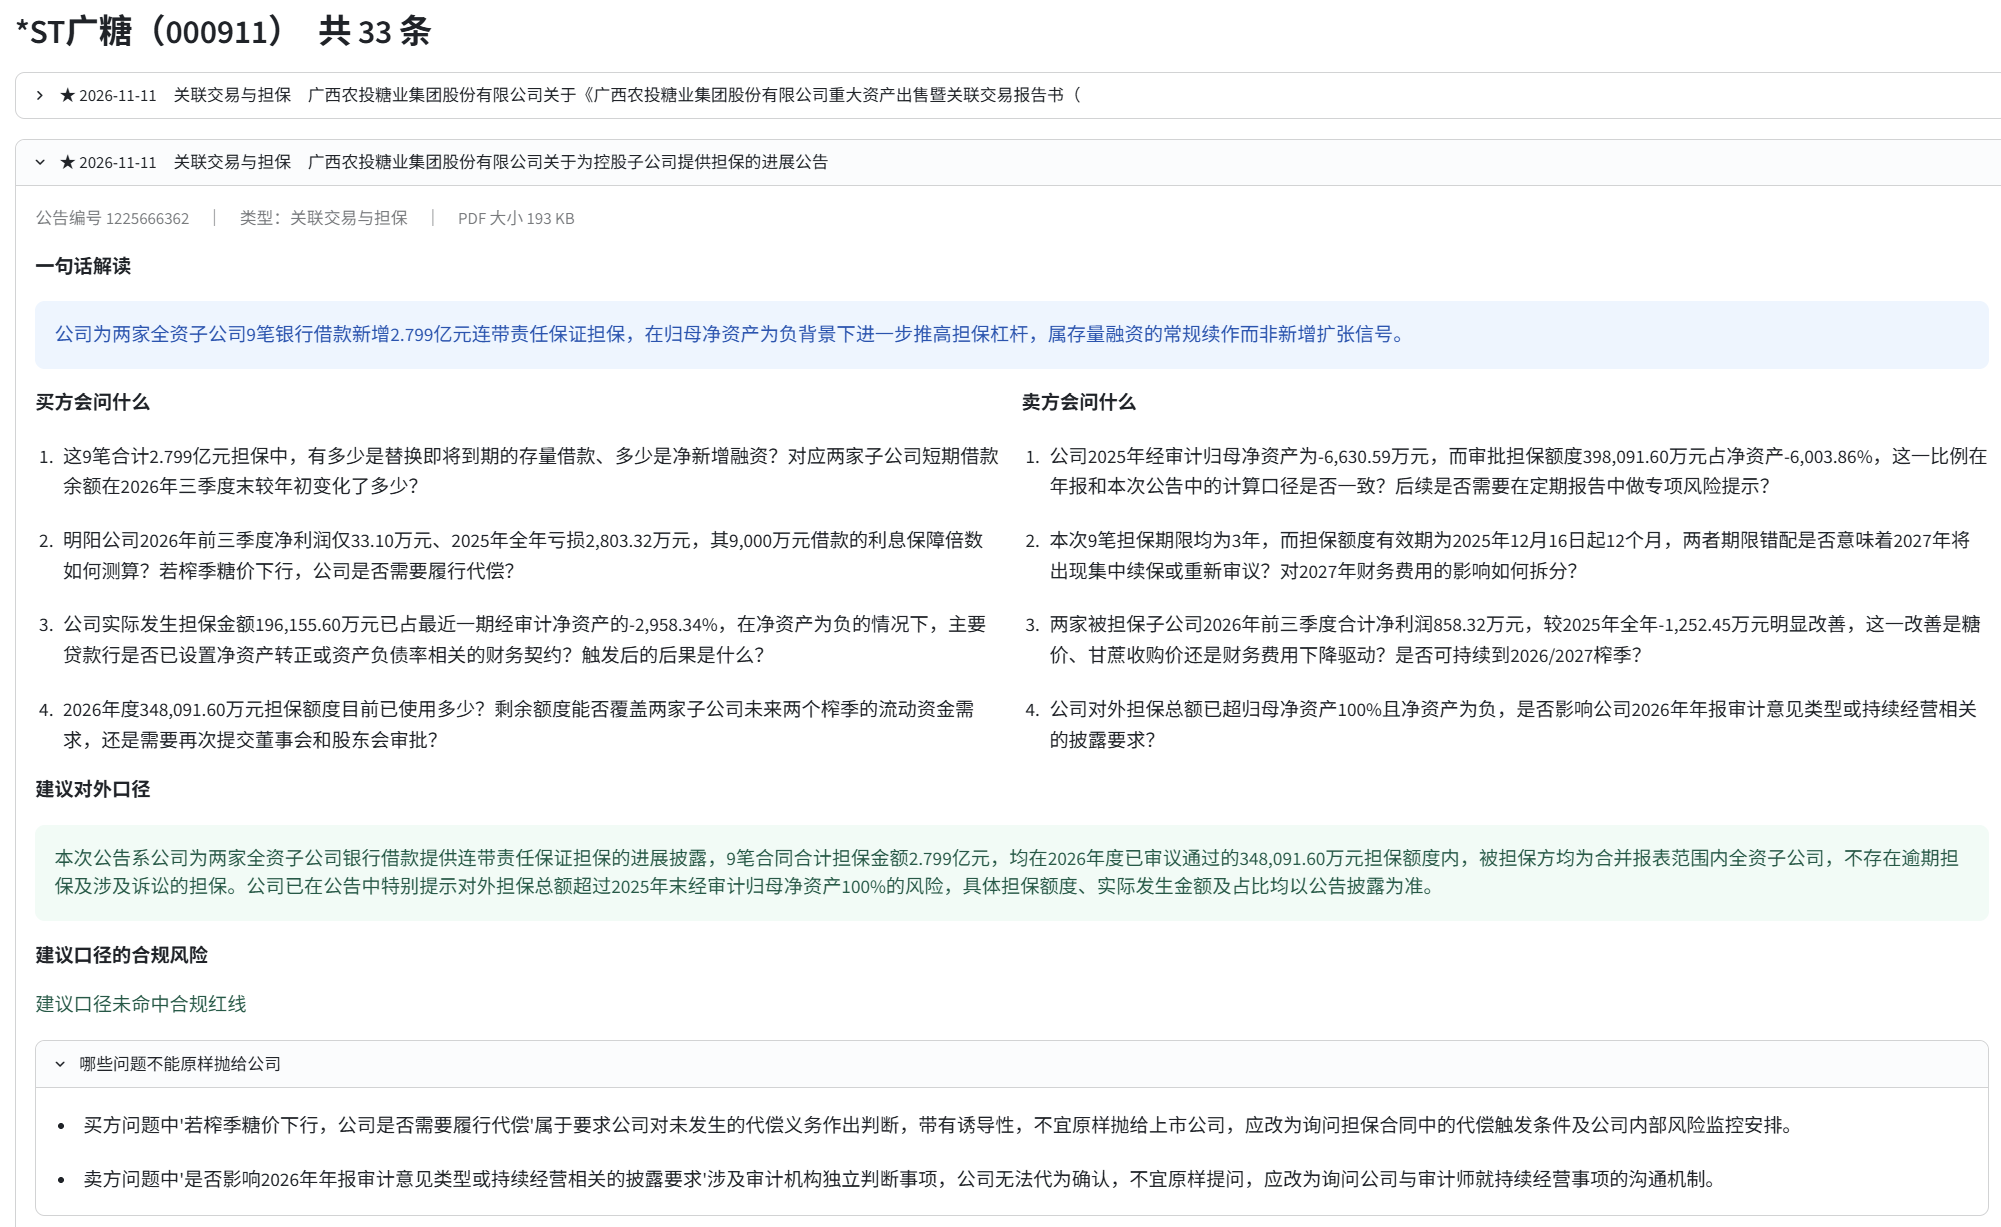
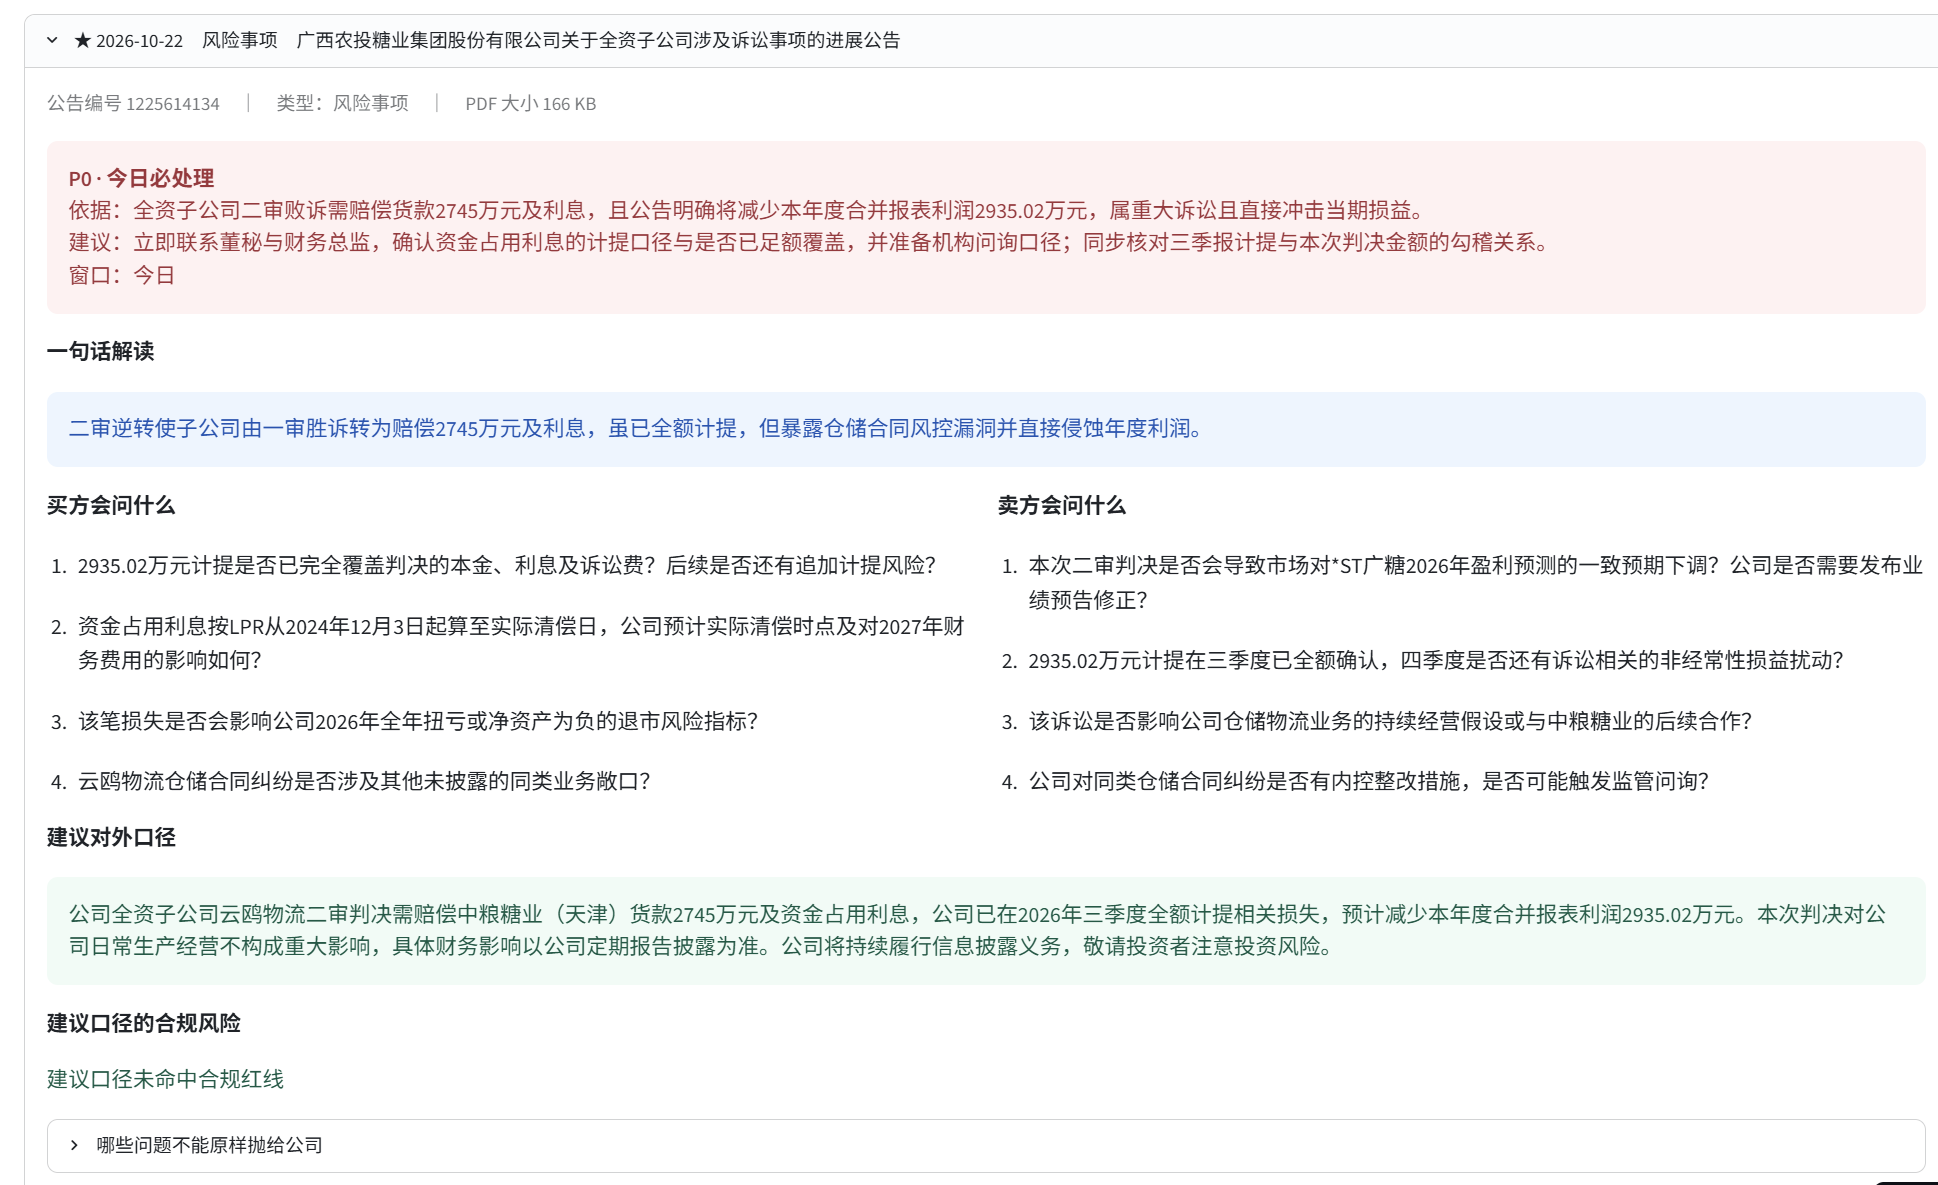
docs: README 加入页面截图（含 P0 优先级展示）

diff --git a/README.md b/README.md
@@ -6,6 +6,10 @@
 　演示版每会话可现场处理 3 条公告（含按需抓取正文），更多需本地运行。  
 　免费实例会休眠，**首次打开可能等待 10–20 秒**，属正常现象。
 
+![单条公告的解读结果：优先级、一句话判断、买卖方追问、建议口径](docs/images/detail.png)
+
+![公告列表：按公司与时间范围筛选](docs/images/list.png)
+
 ---
 
 ## 一、这个工具解决谁的什么问题
